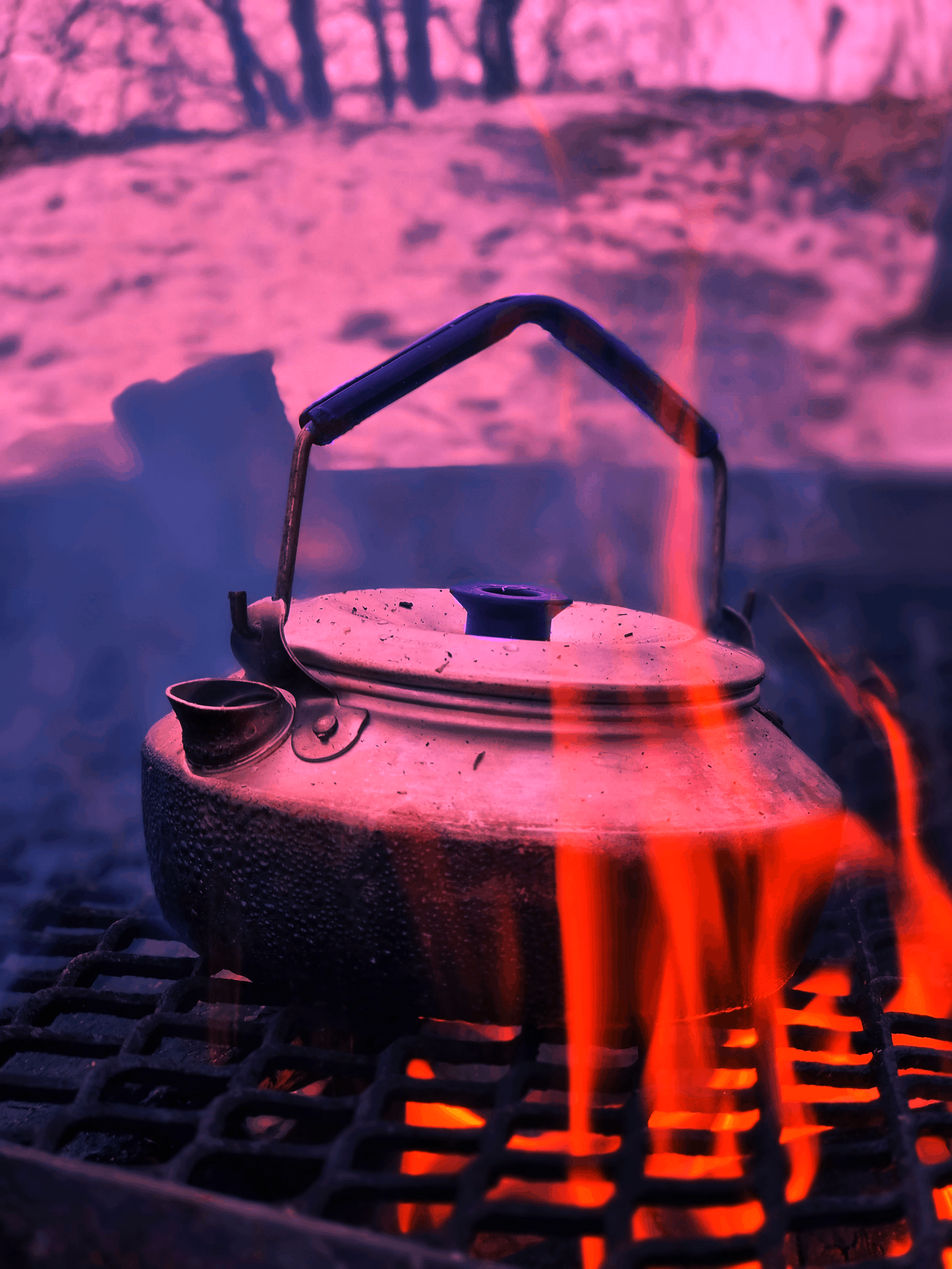
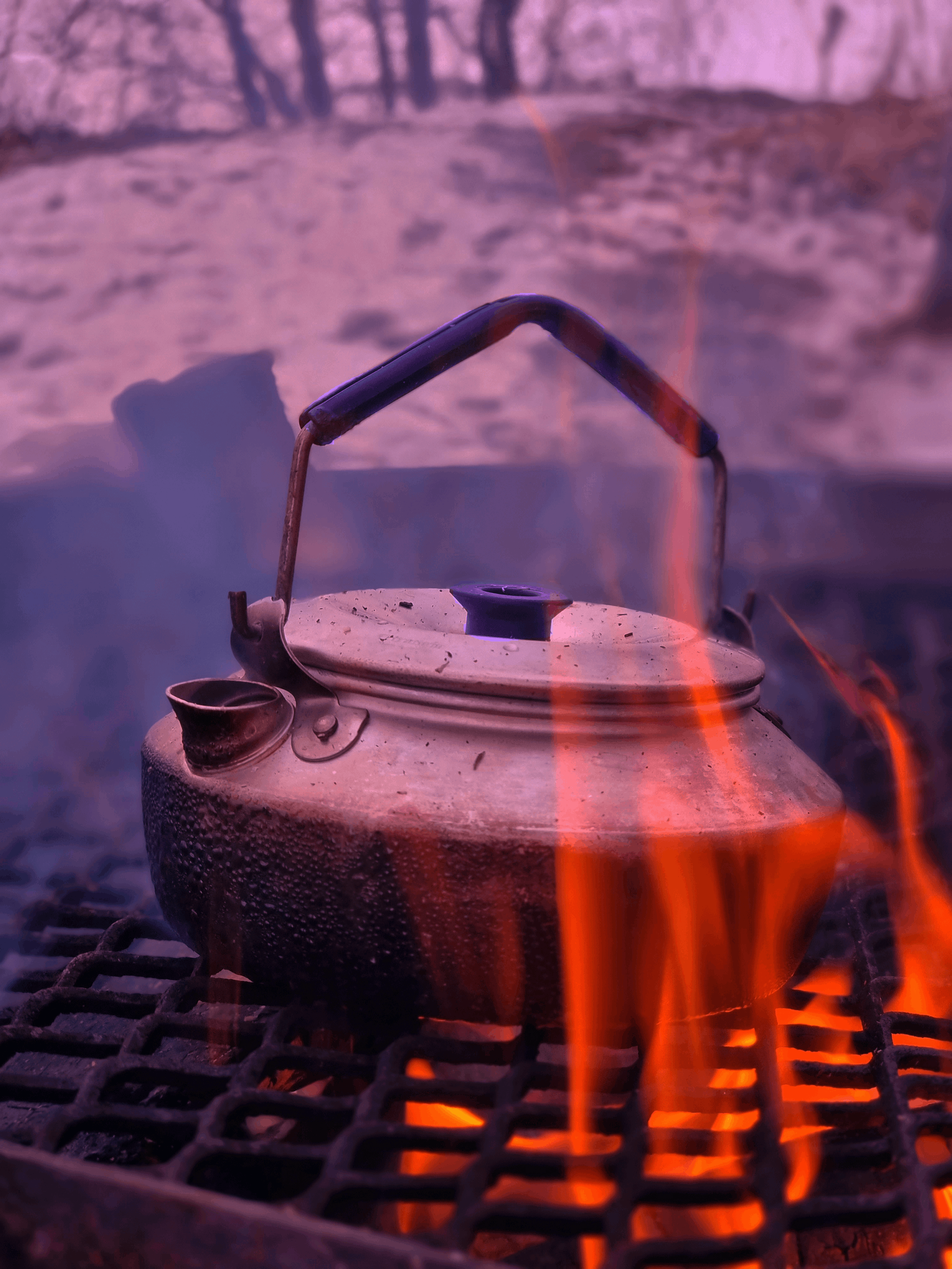
changed kettle img

diff --git a/gallery.html b/gallery.html
@@ -73,11 +73,9 @@
                         Jag har använt mig av curves för att redigera färgerna i bilden. Det första jag gjorde var att i
                         RGB-kanalen dra in brytpunkten för högra hörnet så att den låg i linje med där det faktiskt
                         fanns
-                        färg-information. Detta gjorde bilden betydligt ljusare. För att få fram en snygg blå ton drog
-                        jag
-                        in även den blå kurvan närmare där färginformationen låg.
-                        <p>För att göra bilderna mer enhetliga och matcha den röda tonen som finns i bilden med kossan
-                            drog jag upp de röda nyanserna i curves.</p>
+                        färg-information. Detta gjorde bilden betydligt ljusare. För att få fram en liknande röd ton som
+                        de andra bilderna har drog jag upp det röda Jag har även sänkt kontrasten för att mjuka upp
+                        bilden.
                         <p>
 
                             Jag har bytt färg på kannans och lockets handtag genom att markera dessa med lasson och dra
